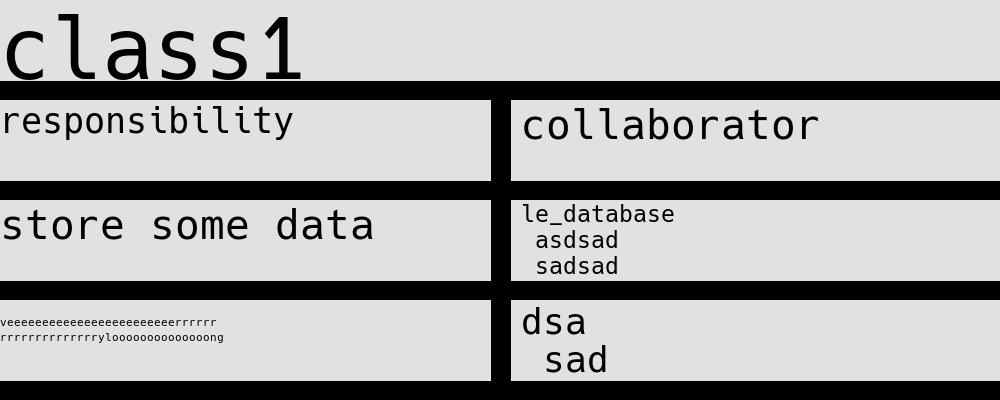
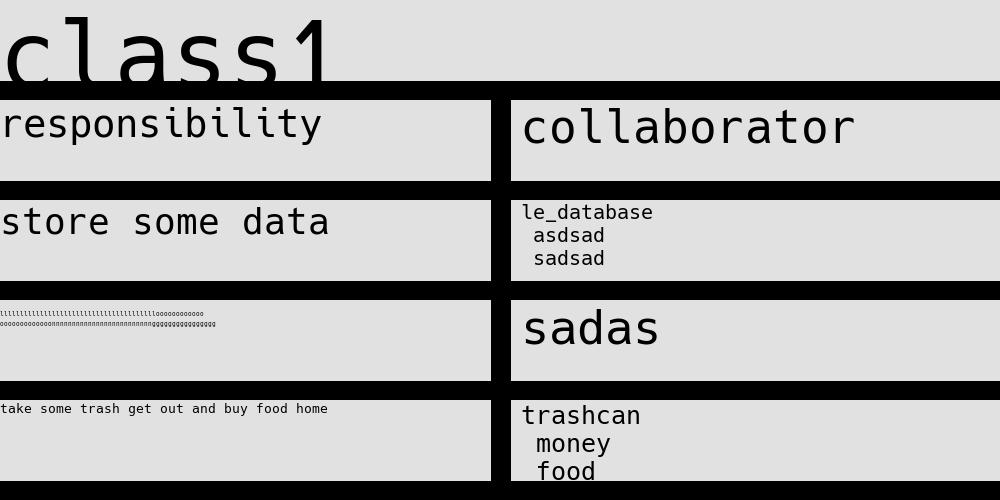
did some resize

diff --git a/CRC-generator.py b/CRC-generator.py
@@ -11,9 +11,10 @@ def vertical_merge(im1:Image, im2:Image):
     return merged
 
 def cut(s:str):
-    for i in range(int((len(s)-(len(s)%30))/30)):
-        s_1=s[:(i*30+2*i)]
-        s_2=s[(i*30+2*i):]
+    size=50
+    for i in range(int((len(s)-(len(s)%size))/size)):
+        s_1=s[:(i*size+2*i)]
+        s_2=s[(i*size+2*i):]
         s=s_1+"\n"+s_2
     return s
 
@@ -22,7 +23,7 @@ def fit_font_size(s:str, sizes:(int,int)):
     s=cut(s)
     font_size=1
     font = ImageFont.truetype("Hack-Regular.ttf", size=1)
-    while font.getsize(s)[0]<sizes[0]*(0.80) and font.getsize(s)[1]<sizes[1]*(0.80):
+    while font.getsize(s)[0]<sizes[0]*(0.65) and font.getsize(s)[1]<sizes[1]*(0.90):
         font_size+=1
         font = ImageFont.truetype("Hack-Regular.ttf", font_size)
     return font

diff --git a/README.md b/README.md
@@ -14,7 +14,7 @@ Run the python file to generate jpgs. They should be stored in a folder named "c
 [class1]
 "responsibility" = "collaborator"
 "store some data" = "le_database \n asdsad \n sadsad"
-"veeeeeeeeeeeeeeeeeeeeeeeerrrrrrrrrrrrrrrrrrrryloooooooooooooong"="dsa \n sad"
+"take some trash get out and buy food home"="trashcan \n money \n food"
 ```
 
 <img src="crc\class1.jpg"  />
